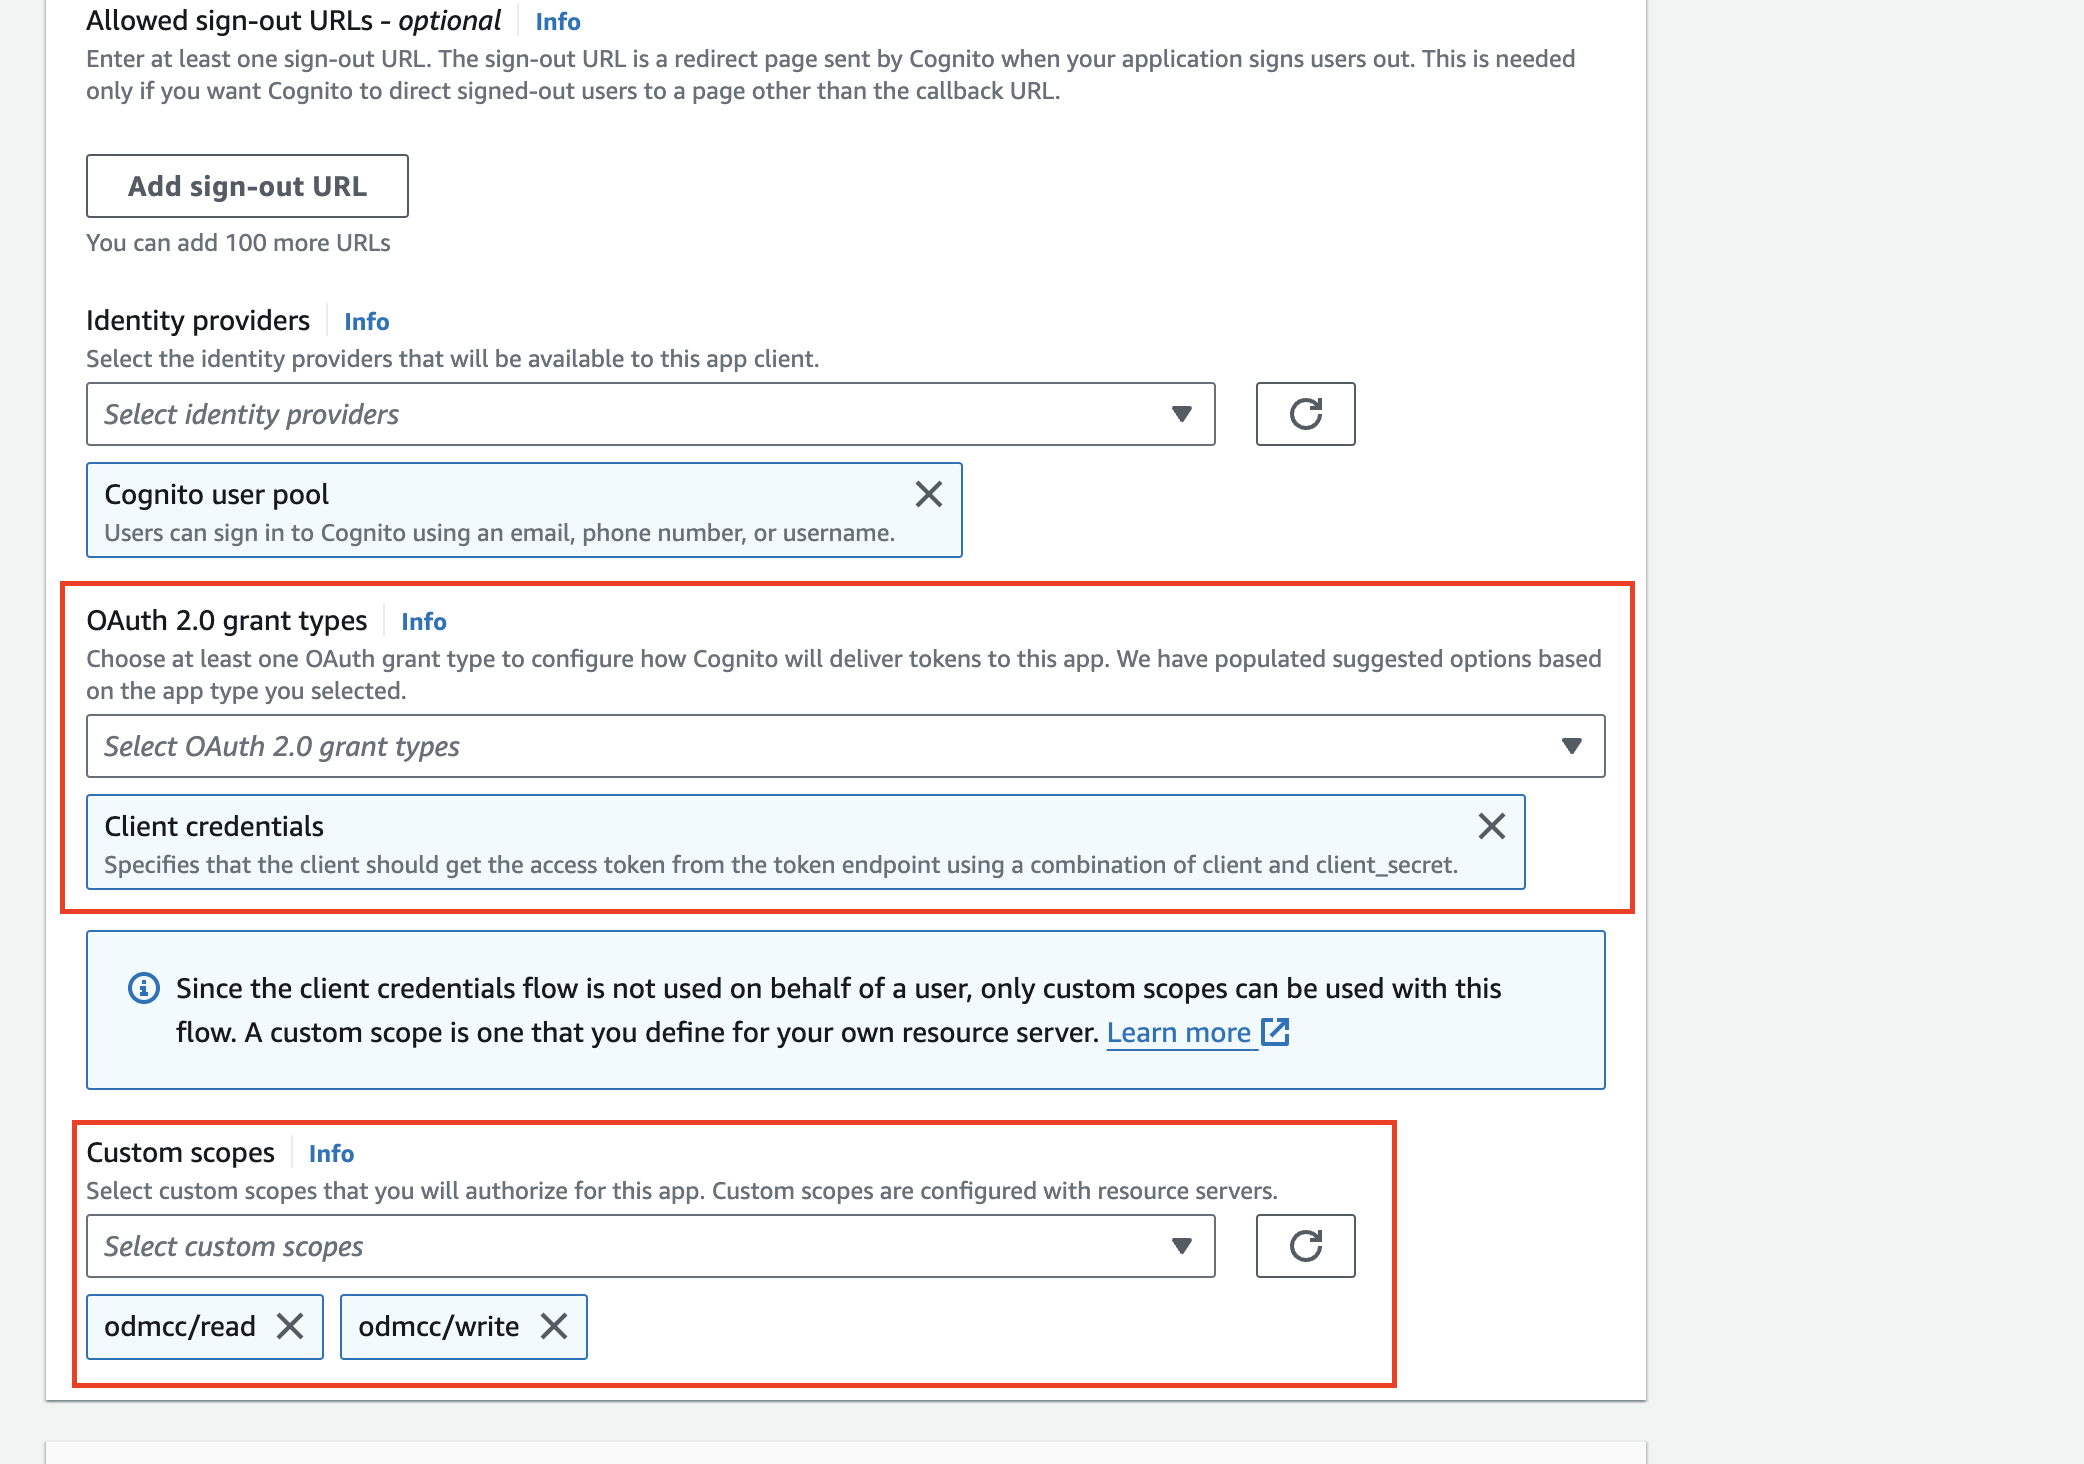
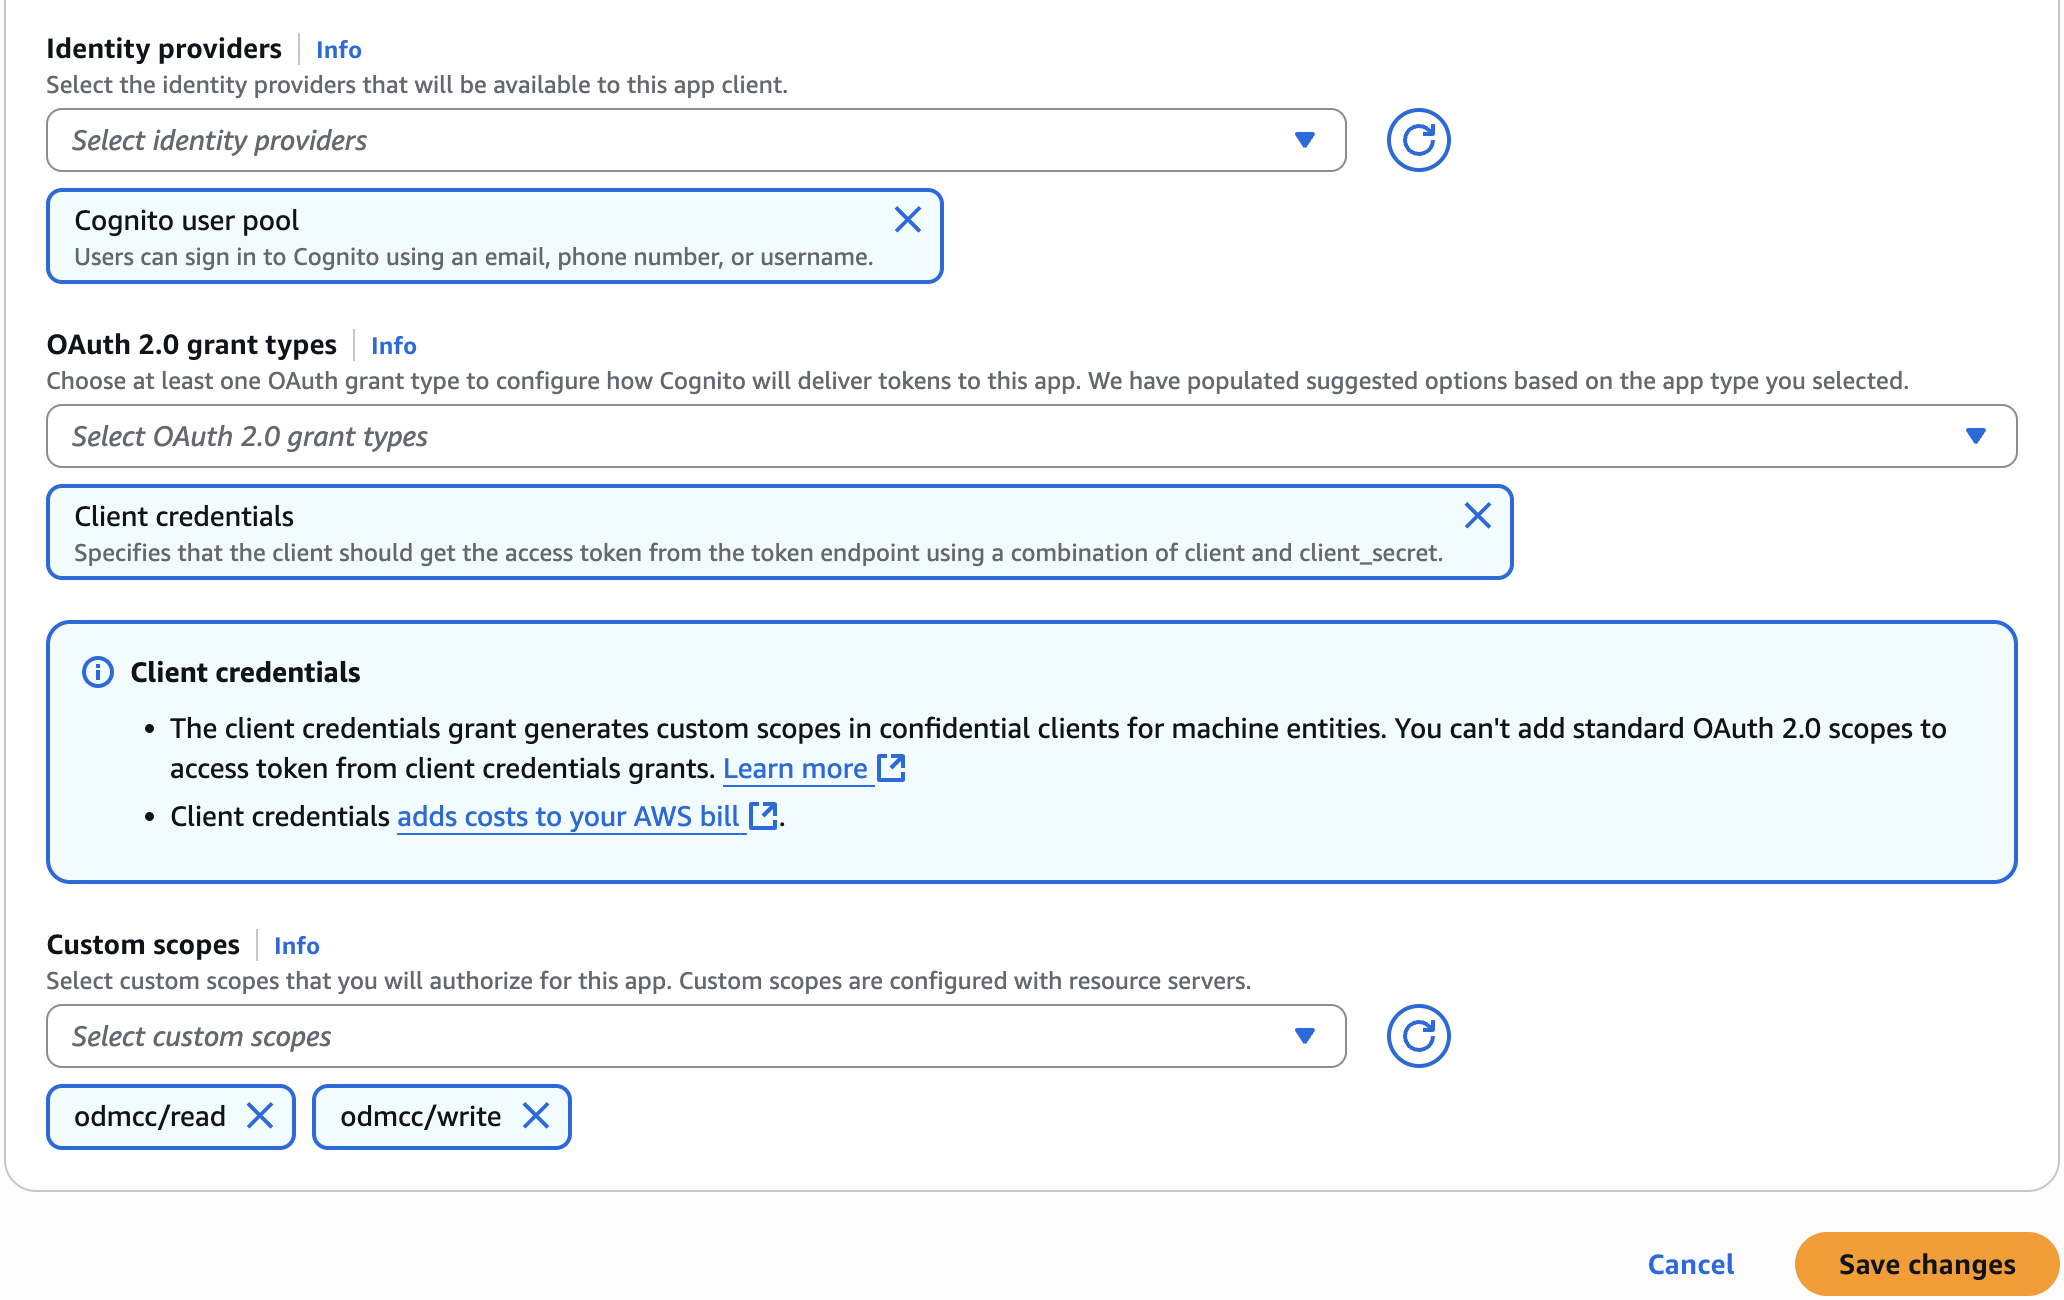
partial update

diff --git a/authentication/Cognito/README.md b/authentication/Cognito/README.md
@@ -173,7 +173,7 @@ To create the Cognito User Pool dedicated to ODM, we followed the [getting start
 
     * Select **App clients** under **Applications** in the left pane
 
-      * Under App clients, click **odm**
+      * Under *App clients*, click **odm**
 
         * in the *App client information* pane
           * take a note of the **Client ID** and **Client secret**
@@ -187,18 +187,18 @@ To create the Cognito User Pool dedicated to ODM, we followed the [getting start
         * Under the **Login pages** tab
 
           * click **Edit** in the *Managed login pages configuration* pane
-            * *Allowed callback URLs* : to be filled up once ODM is deployed and the redirect URI are known
+            * *Allowed callback URLs* : to be filled up once ODM is deployed and the redirect URIs are known
             * *Identity providers* = **Cognito user pool**
             * *OAuth 2.0 grant types* = **Authorization code grant**
-            * *OpenID Connect Scopes* = **Email** **OpenID** **Phone**
+            * *OpenID Connect Scopes* = **Email**, **OpenID**, **Phone**
 
         * Under the **Attribute permissions** tab
-          * leave the default values as it in the **Attribute read and write permissions** pane 
+          * leave the default read and write permissions 
 
 ## Create A User
 
 * Select the **odmuserpool** User Pool:
-  * Select the **Users** tab:
+  * Select **Users** under *User Management* in the left-hand pane:
     * Click on **Create user**
 
     In **User information**:
@@ -213,7 +213,7 @@ To create the Cognito User Pool dedicated to ODM, we followed the [getting start
 ## Create an ODM Admin Group
 
 * Select the **odmuserpool** User Pool:
-  * Select the **Groups** tab:
+  * Select **Groups** under *User Management* in the left-hand pane:
     * Click on **Create group**      
 
    In **Group information**:
@@ -245,60 +245,48 @@ The Client-credentials flow will be used for M2M (Machine to Machine) communicat
 It will enable communication between Decision Center and the Decision Server Console for ruleapp deployment. 
 It will also enable the communication between Decision Center and Decision Runner for tests and simulation.
 
-Usage of the client-credentials flow needs custom scopes that will be hosted by a Resource Server. A scope is a level of access that an app can request to a resource.
-To get more details about scope and resource server, you can read [OAuth 2.0 scopes and API authorization with resource servers](https://docs.aws.amazon.com/cognito/latest/developerguide/cognito-user-pools-define-resource-servers.html?icmpid=docs_cognito_console_help_panel)
+A Resource Server needs to be created to use the client-credentials flow and some custom scopes need to be configured. A scope is a level of access that an app can request to a resource.
+To get more details about scopes and resource server, you can read [OAuth 2.0 scopes and API authorization with resource servers](https://docs.aws.amazon.com/cognito/latest/developerguide/cognito-user-pools-define-resource-servers.html?icmpid=docs_cognito_console_help_panel)
 
 
-1. Create an **ODMClientCredentialsServer** Resource Server
+1. Create a Resource Server
 
 Select the **odmuserpool** User Pool:
-  * Select the **App Integration** tab:
-    * On **Resource servers** section:
-      * Click on **create resource server** button
+  * Click **Domain** under *Branding* in the left-hand pane
+    * In the **Resource servers** pane, click the **Create resource server** button
 
     In **Resource server**:
-      * **Resource server name**:
-        * Enter the **ODMClientCredentialsServer** name
-      * **Resource server identifier**:
-        * Enter **odmcc**
+      * Set *Resource server name* = **ODMClientCredentialsServer**
+      * Set *Resource server identifier* = **odmcc**
 
-    In **Custom scopes**:
-      * Click the **Add custom scopes** button
-
-    Create the 2 following scopes:
-      * Enter the **Scope name** : read
-        with **Description**: for GET requests
-        Click the **Add another** button
-      * Enter the **Scope name** : write
-        with **Description**: for POST requests
+    In **Custom scopes**, create 2 scopes:
+      * Click the **Add custom scope** button
+      * Set *Scope name* = **read**
+      * Set *Description* = **for GET requests**
+      * Click the **Add another** button
+      * Set *Scope name* = **write**
+      * Set *Description* = **for POST requests**
 
     Click the **create resource server** button 
 
 ![Create Resource Server](images/CreateResourceServer.png)
 
-2. Create an **odmclientcredentials** client application
+2. Create a new client application
 
 Select the **odmuserpool** User Pool:
-  * Select the **App Integration** tab:
-    * On **App clients and analytics**:
-      * Click on the **Create app client** button
+  * Click **App clients** under *Application* in the left-hand pane
+    * Click the **Create app client** button in the **App clients** pane
 
-    In **App client**:
-      * App type:
-        * Select **Confidential client**
+    * Select *Application type* = **Machine-to-machine application**
+    * Enter *App client name* = **odmclientcredentials**
+    * Click the **Create app client** button
 
-      * For **App client name**:
-        * Enter **odmclientcredentials**
-
-    In **Hosted UI settings**:
-      * For **URL**
-        * Enter a dummy URL: https://localhost  <!-- markdown-link-check-disable-line -->
-      * For **OAuth 2.0 grant types**:
-        * Select **Client credentials**
-      * For **Custom scopes**:
-        * Select : odmcc/read and odmcc/write
-
-    Click on **Create app client** button 
+    * Click the **Login pages** tab and then the **Edit** button in the *Managed login pages configuration* pane
+      * Click the **Add callback URL** button and Enter a dummy URL such as **https://localhost**  <!-- markdown-link-check-disable-line -->
+      * Keep *Identity providers* = **Cognito user pool**
+      * Keep *OAuth 2.0 grant types* = **Client credentials**
+      * Select *Custom scopes* = **odmcc/read** and **odmcc/write**
+      * Click the **Save changes** button
 
 ![Client-Credentials App](images/ClientCredentialsApp.png)
     
